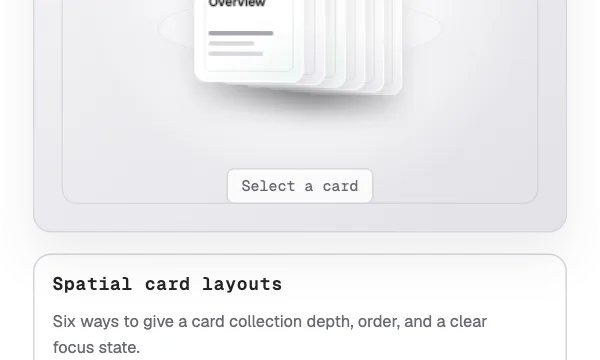
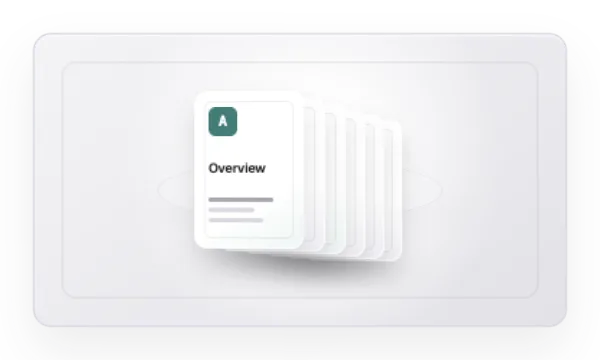
Fit spatial card specimen to the catalog stage
The catalog card mounts the specimen in a short iframe, so the mode
switcher and focus caption were squeezing the card stack against the
edge and the preview thumbnail was cropped mid-stack.

Add a compact rule for stages under 260px tall: the player fills the
stage, the viewport carries the whole height, and the controls plus
focus caption drop out so only the spatial arrangement shows. The
detail page keeps the full six-mode switcher. Regenerate both
bilingual preview thumbs from the corrected layout.

diff --git a/demos/spatial-card-layouts.html b/demos/spatial-card-layouts.html
@@ -104,6 +104,15 @@
 .demo-style-spatial-card-layouts .mode-wave .sc-card:nth-child(5) { z-index:27; }
 .demo-style-spatial-card-layouts .mode-wave .sc-orbit { opacity:.12; transform:translate(-50%,-50%) rotateX(66deg) scaleX(1.45); }
 @media (max-width:680px) { .demo-style-spatial-card-layouts .sc-player { grid-template-columns:1fr; } .demo-style-spatial-card-layouts .sc-controls { padding:12px; } .demo-style-spatial-card-layouts .sc-modes { grid-template-columns:repeat(3,minmax(0,1fr)); } .demo-style-spatial-card-layouts .sc-modes button { text-align:center; } }
+/* Catalog cards provide a short stage. Show the spatial arrangement itself,
+   centered and unclipped; the full switcher remains on the detail page. */
+@media (max-height:260px) {
+  .demo-style-spatial-card-layouts { width:100%; height:100%; }
+  .demo-style-spatial-card-layouts .sc-player { display:block; width:100%; height:100%; }
+  .demo-style-spatial-card-layouts .sc-viewport { width:100%; height:100%; min-height:0; }
+  .demo-style-spatial-card-layouts .sc-controls,
+  .demo-style-spatial-card-layouts .sc-focus { display:none; }
+}
 @media (prefers-reduced-motion:reduce) { .demo-style-spatial-card-layouts .sc-card, .demo-style-spatial-card-layouts .sc-orbit, .demo-style-spatial-card-layouts .sc-modes button { transition-duration:.01ms; } }
 </style>
 <script>
